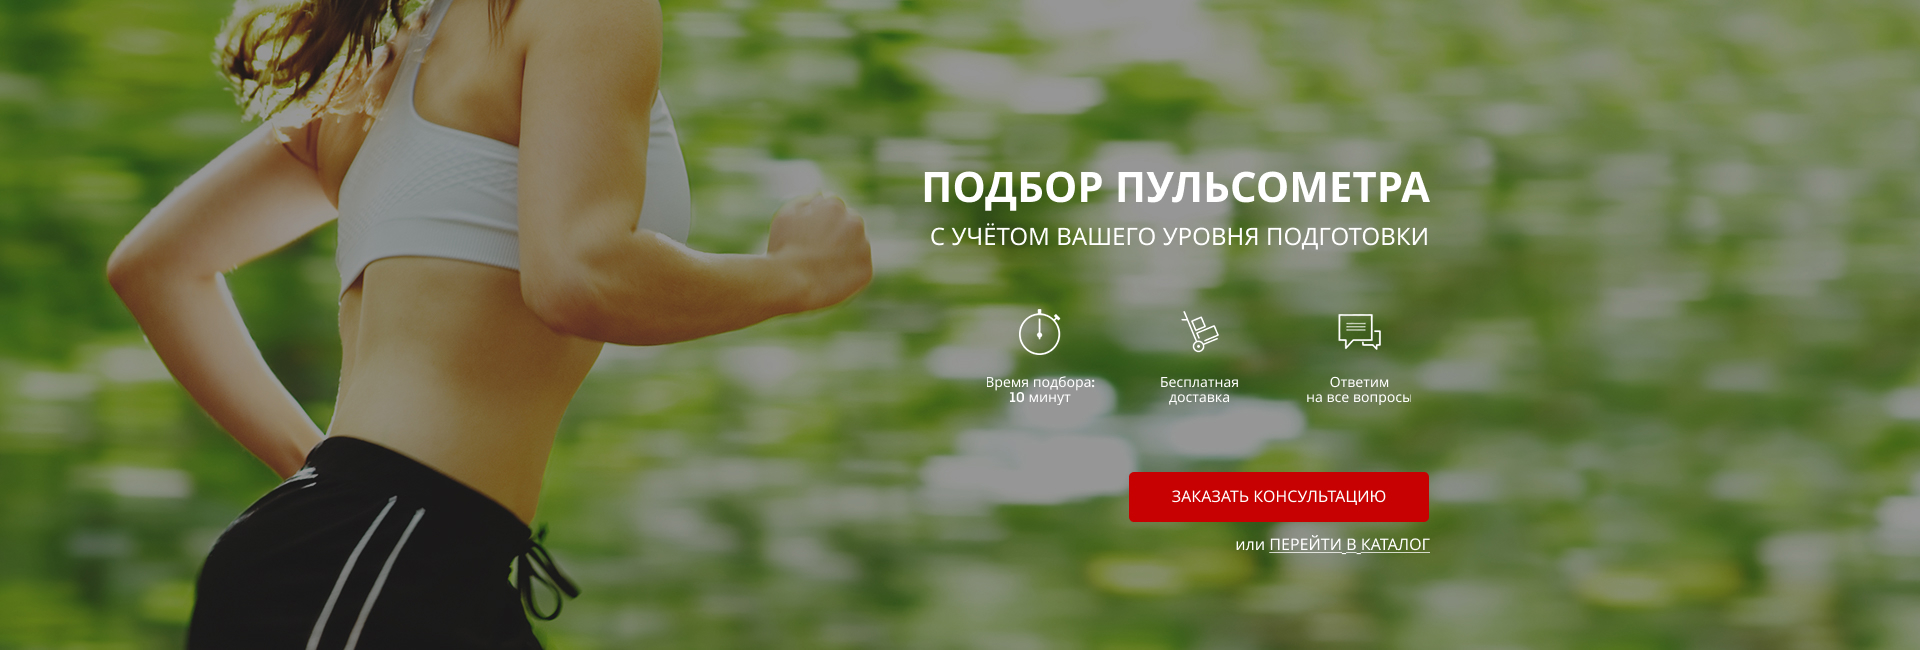
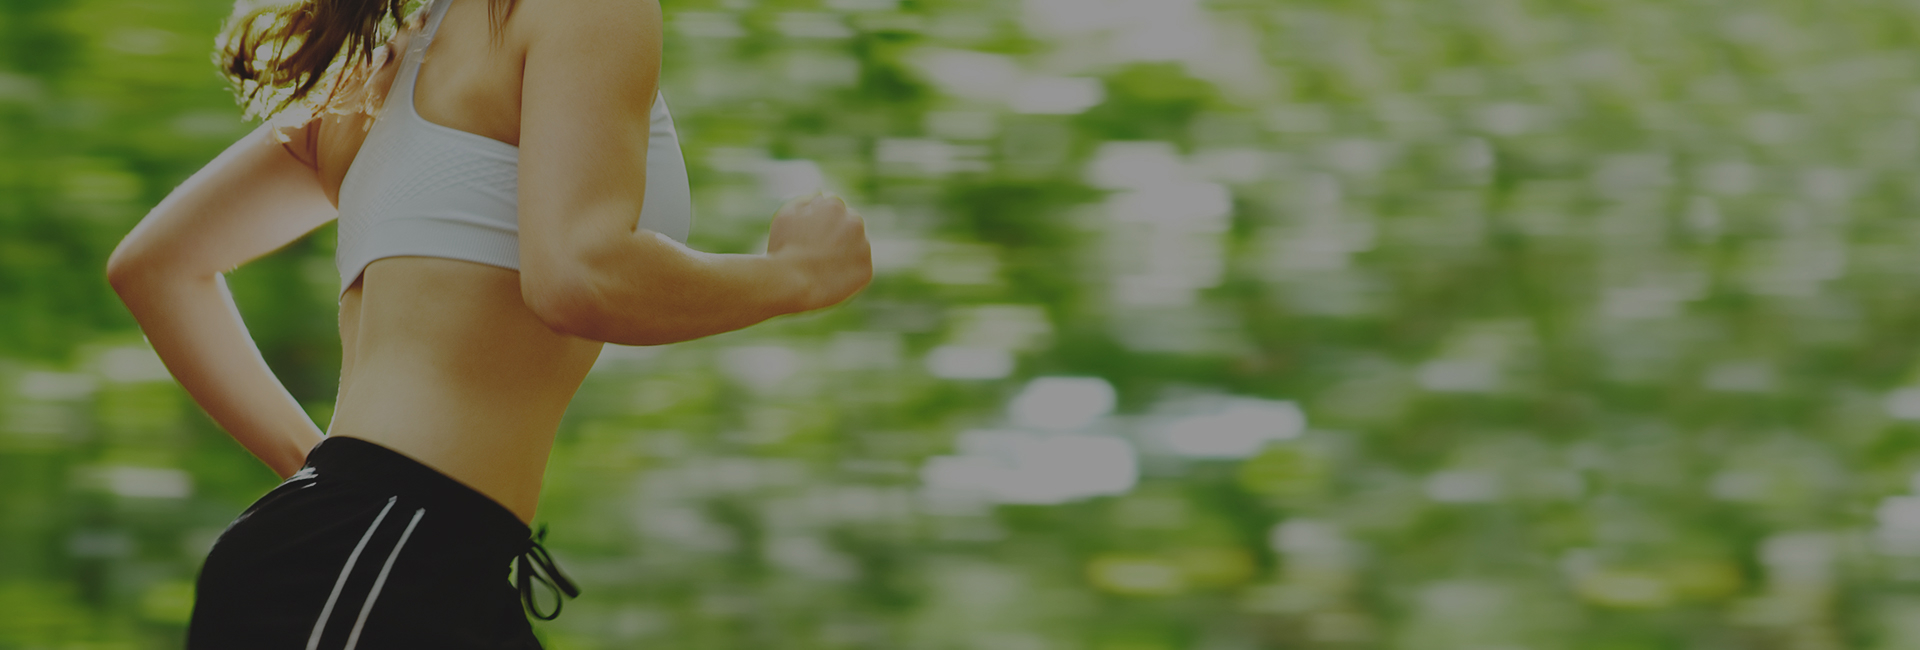
настройка gulp, частичная верстка первой секции по БЭМ

diff --git a/RunSmart/src/css/bootstrap-reboot.min.css b/RunSmart/src/css/bootstrap-reboot.min.css
@@ -1,0 +1,7 @@
+/*!
+ * Bootstrap Reboot v5.2.2 (https://getbootstrap.com/)
+ * Copyright 2011-2022 The Bootstrap Authors
+ * Copyright 2011-2022 Twitter, Inc.
+ * Licensed under MIT (https://github.com/twbs/bootstrap/blob/main/LICENSE)
+ */:root{--bs-blue:#0d6efd;--bs-indigo:#6610f2;--bs-purple:#6f42c1;--bs-pink:#d63384;--bs-red:#dc3545;--bs-orange:#fd7e14;--bs-yellow:#ffc107;--bs-green:#198754;--bs-teal:#20c997;--bs-cyan:#0dcaf0;--bs-black:#000;--bs-white:#fff;--bs-gray:#6c757d;--bs-gray-dark:#343a40;--bs-gray-100:#f8f9fa;--bs-gray-200:#e9ecef;--bs-gray-300:#dee2e6;--bs-gray-400:#ced4da;--bs-gray-500:#adb5bd;--bs-gray-600:#6c757d;--bs-gray-700:#495057;--bs-gray-800:#343a40;--bs-gray-900:#212529;--bs-primary:#0d6efd;--bs-secondary:#6c757d;--bs-success:#198754;--bs-info:#0dcaf0;--bs-warning:#ffc107;--bs-danger:#dc3545;--bs-light:#f8f9fa;--bs-dark:#212529;--bs-primary-rgb:13,110,253;--bs-secondary-rgb:108,117,125;--bs-success-rgb:25,135,84;--bs-info-rgb:13,202,240;--bs-warning-rgb:255,193,7;--bs-danger-rgb:220,53,69;--bs-light-rgb:248,249,250;--bs-dark-rgb:33,37,41;--bs-white-rgb:255,255,255;--bs-black-rgb:0,0,0;--bs-body-color-rgb:33,37,41;--bs-body-bg-rgb:255,255,255;--bs-font-sans-serif:system-ui,-apple-system,"Segoe UI",Roboto,"Helvetica Neue","Noto Sans","Liberation Sans",Arial,sans-serif,"Apple Color Emoji","Segoe UI Emoji","Segoe UI Symbol","Noto Color Emoji";--bs-font-monospace:SFMono-Regular,Menlo,Monaco,Consolas,"Liberation Mono","Courier New",monospace;--bs-gradient:linear-gradient(180deg, rgba(255, 255, 255, 0.15), rgba(255, 255, 255, 0));--bs-body-font-family:var(--bs-font-sans-serif);--bs-body-font-size:1rem;--bs-body-font-weight:400;--bs-body-line-height:1.5;--bs-body-color:#212529;--bs-body-bg:#fff;--bs-border-width:1px;--bs-border-style:solid;--bs-border-color:#dee2e6;--bs-border-color-translucent:rgba(0, 0, 0, 0.175);--bs-border-radius:0.375rem;--bs-border-radius-sm:0.25rem;--bs-border-radius-lg:0.5rem;--bs-border-radius-xl:1rem;--bs-border-radius-2xl:2rem;--bs-border-radius-pill:50rem;--bs-link-color:#0d6efd;--bs-link-hover-color:#0a58ca;--bs-code-color:#d63384;--bs-highlight-bg:#fff3cd}*,::after,::before{box-sizing:border-box}@media (prefers-reduced-motion:no-preference){:root{scroll-behavior:smooth}}body{margin:0;font-family:var(--bs-body-font-family);font-size:var(--bs-body-font-size);font-weight:var(--bs-body-font-weight);line-height:var(--bs-body-line-height);color:var(--bs-body-color);text-align:var(--bs-body-text-align);background-color:var(--bs-body-bg);-webkit-text-size-adjust:100%;-webkit-tap-highlight-color:transparent}hr{margin:1rem 0;color:inherit;border:0;border-top:1px solid;opacity:.25}h1,h2,h3,h4,h5,h6{margin-top:0;margin-bottom:.5rem;font-weight:500;line-height:1.2}h1{font-size:calc(1.375rem + 1.5vw)}@media (min-width:1200px){h1{font-size:2.5rem}}h2{font-size:calc(1.325rem + .9vw)}@media (min-width:1200px){h2{font-size:2rem}}h3{font-size:calc(1.3rem + .6vw)}@media (min-width:1200px){h3{font-size:1.75rem}}h4{font-size:calc(1.275rem + .3vw)}@media (min-width:1200px){h4{font-size:1.5rem}}h5{font-size:1.25rem}h6{font-size:1rem}p{margin-top:0;margin-bottom:1rem}abbr[title]{-webkit-text-decoration:underline dotted;text-decoration:underline dotted;cursor:help;-webkit-text-decoration-skip-ink:none;text-decoration-skip-ink:none}address{margin-bottom:1rem;font-style:normal;line-height:inherit}ol,ul{padding-left:2rem}dl,ol,ul{margin-top:0;margin-bottom:1rem}ol ol,ol ul,ul ol,ul ul{margin-bottom:0}dt{font-weight:700}dd{margin-bottom:.5rem;margin-left:0}blockquote{margin:0 0 1rem}b,strong{font-weight:bolder}small{font-size:.875em}mark{padding:.1875em;background-color:var(--bs-highlight-bg)}sub,sup{position:relative;font-size:.75em;line-height:0;vertical-align:baseline}sub{bottom:-.25em}sup{top:-.5em}a{color:var(--bs-link-color);text-decoration:underline}a:hover{color:var(--bs-link-hover-color)}a:not([href]):not([class]),a:not([href]):not([class]):hover{color:inherit;text-decoration:none}code,kbd,pre,samp{font-family:var(--bs-font-monospace);font-size:1em}pre{display:block;margin-top:0;margin-bottom:1rem;overflow:auto;font-size:.875em}pre code{font-size:inherit;color:inherit;word-break:normal}code{font-size:.875em;color:var(--bs-code-color);word-wrap:break-word}a>code{color:inherit}kbd{padding:.1875rem .375rem;font-size:.875em;color:var(--bs-body-bg);background-color:var(--bs-body-color);border-radius:.25rem}kbd kbd{padding:0;font-size:1em}figure{margin:0 0 1rem}img,svg{vertical-align:middle}table{caption-side:bottom;border-collapse:collapse}caption{padding-top:.5rem;padding-bottom:.5rem;color:#6c757d;text-align:left}th{text-align:inherit;text-align:-webkit-match-parent}tbody,td,tfoot,th,thead,tr{border-color:inherit;border-style:solid;border-width:0}label{display:inline-block}button{border-radius:0}button:focus:not(:focus-visible){outline:0}button,input,optgroup,select,textarea{margin:0;font-family:inherit;font-size:inherit;line-height:inherit}button,select{text-transform:none}[role=button]{cursor:pointer}select{word-wrap:normal}select:disabled{opacity:1}[list]:not([type=date]):not([type=datetime-local]):not([type=month]):not([type=week]):not([type=time])::-webkit-calendar-picker-indicator{display:none!important}[type=button],[type=reset],[type=submit],button{-webkit-appearance:button}[type=button]:not(:disabled),[type=reset]:not(:disabled),[type=submit]:not(:disabled),button:not(:disabled){cursor:pointer}::-moz-focus-inner{padding:0;border-style:none}textarea{resize:vertical}fieldset{min-width:0;padding:0;margin:0;border:0}legend{float:left;width:100%;padding:0;margin-bottom:.5rem;font-size:calc(1.275rem + .3vw);line-height:inherit}@media (min-width:1200px){legend{font-size:1.5rem}}legend+*{clear:left}::-webkit-datetime-edit-day-field,::-webkit-datetime-edit-fields-wrapper,::-webkit-datetime-edit-hour-field,::-webkit-datetime-edit-minute,::-webkit-datetime-edit-month-field,::-webkit-datetime-edit-text,::-webkit-datetime-edit-year-field{padding:0}::-webkit-inner-spin-button{height:auto}[type=search]{outline-offset:-2px;-webkit-appearance:textfield}::-webkit-search-decoration{-webkit-appearance:none}::-webkit-color-swatch-wrapper{padding:0}::-webkit-file-upload-button{font:inherit;-webkit-appearance:button}::file-selector-button{font:inherit;-webkit-appearance:button}output{display:inline-block}iframe{border:0}summary{display:list-item;cursor:pointer}progress{vertical-align:baseline}[hidden]{display:none!important}
+/*# sourceMappingURL=bootstrap-reboot.min.css.map */

diff --git a/RunSmart/src/index.html b/RunSmart/src/index.html
@@ -1,0 +1,32 @@
+<!DOCTYPE html>
+<html lang="ru">
+<head>
+    <meta charset="UTF-8">
+    <meta http-equiv="X-UA-Compatible" content="IE=edge">
+    <meta name="viewport" content="width=device-width, initial-scale=1.0">
+    <title>Run Smart</title>
+    <link rel="stylesheet" href="css/bootstrap-reboot.min.css">
+    <link rel="stylesheet" href="css/fonts.css">
+    <link rel="stylesheet" href="css/style.min.css">
+</head>
+<body>
+    <div class="promo">
+        <div class="container">
+            <header class="header">
+                <a href="#" class="header__logo">
+                    <img src="icons/logoRunSmart.svg" alt="logo">
+                </a>
+                <div class="header__official">
+                    Официальный представитель
+                    <span>Garmin, Polar, Suunto</span>
+                </div>
+                <div class="header__contacts">
+                    <a href="tel:+74999228974" class="header__phone">+7 (499) 922-89-74</a>
+                    <button class="button">заказать звонок</button>
+                </div>
+            </header>
+        </div>
+    </div>
+    
+</body>
+</html>

diff --git a/RunSmart/gulpfile.js b/RunSmart/gulpfile.js
@@ -15,7 +15,7 @@ gulp.task('server', function() {
 });
 
 gulp.task('styles', function () {
-    return gulp.src("src/sass/*.+(scss|sass)")
+    return gulp.src("src/sass/**/*.+(scss|sass)")
         .pipe(sass({outputStyle: 'compressed'}).on('error', sass.logError))
         .pipe(rename({
             prefix: "",
@@ -30,7 +30,7 @@ gulp.task('styles', function () {
 });
 
 gulp.task('watch', function () {
-    gulp.watch('src/sass/*.+(scss|sass)', gulp.parallel('styles'));
+    gulp.watch('src/sass/**/*.+(scss|sass)', gulp.parallel('styles'));
     gulp.watch('src/*.html').on('change', browserSync.reload);
 
 });

diff --git a/RunSmart/src/css/style.min.css b/RunSmart/src/css/style.min.css
@@ -1,0 +1,1 @@
+*{font-family:"Museo Sans Cyrl"}.container{max-width:950px;margin:0 auto}.promo{min-height:650px;padding:21px 0 93px 0;background:url(../../img/bg/firstScreen.jpg) center center/cover no-repeat}.header{display:flex;justify-content:space-between;align-items:center}.header__logo{width:250px}.header__logo img{width:100%}

diff --git a/RunSmart/src/sass/blocks/_header.scss b/RunSmart/src/sass/blocks/_header.scss
@@ -1,0 +1,11 @@
+.header{
+    display: flex;
+    justify-content: space-between;
+    align-items: center;
+    &__logo {
+        width: 250px;
+        img {
+            width: 100%;
+        }
+    }
+}

diff --git a/RunSmart/src/sass/style.scss b/RunSmart/src/sass/style.scss
@@ -1,0 +1,10 @@
+@import 'base/variables';
+* {
+    font-family: 'Museo Sans Cyrl';
+}
+.container {
+    max-width: 950px;
+    margin: 0 auto;
+}
+@import 'blocks/promo';
+@import 'blocks/header';

diff --git a/RunSmart/src/sass/blocks/_promo.scss b/RunSmart/src/sass/blocks/_promo.scss
@@ -1,0 +1,5 @@
+.promo {
+    min-height: 650px;
+    padding: 21px 0 93px 0;
+    background: url('../../img/bg/firstScreen.jpg') center (center/cover) no-repeat;
+}

diff --git a/RunSmart/src/sass/base/_variables.scss b/RunSmart/src/sass/base/_variables.scss
@@ -1,0 +1,1 @@
+$main-color: #c70101;
